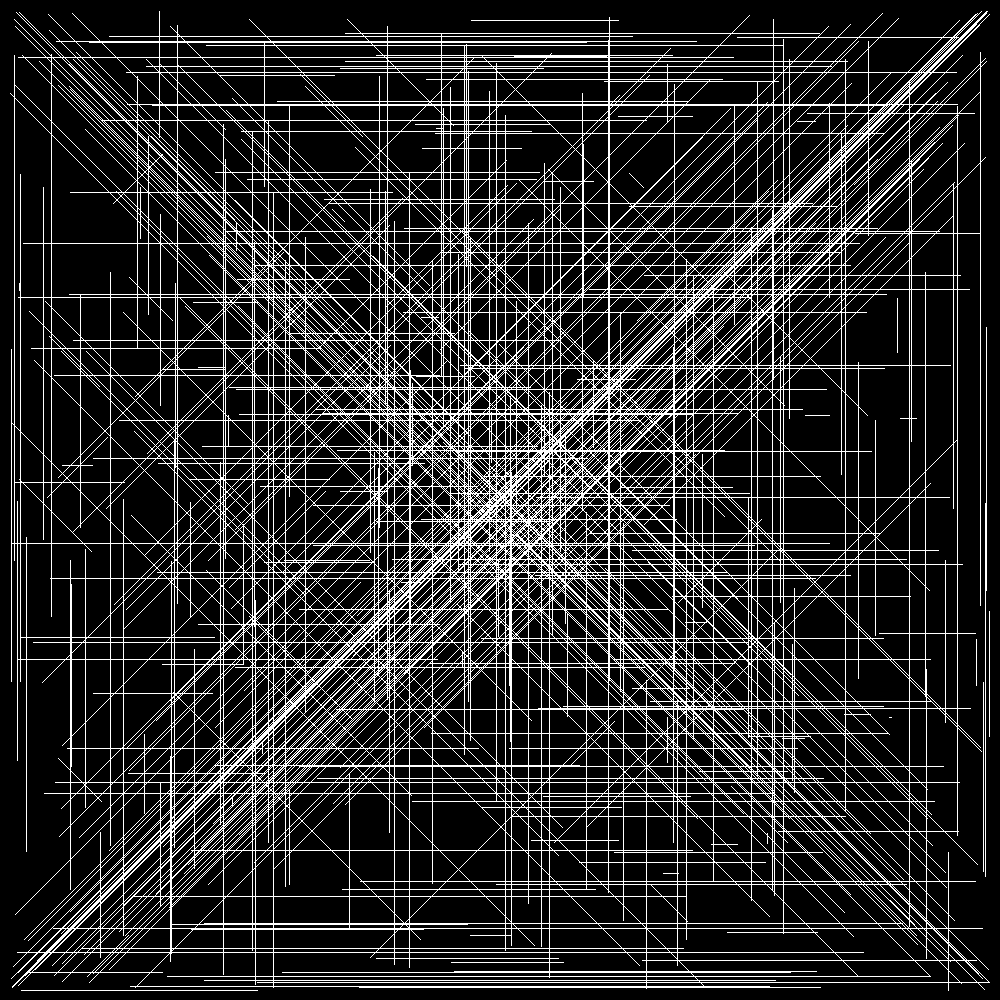
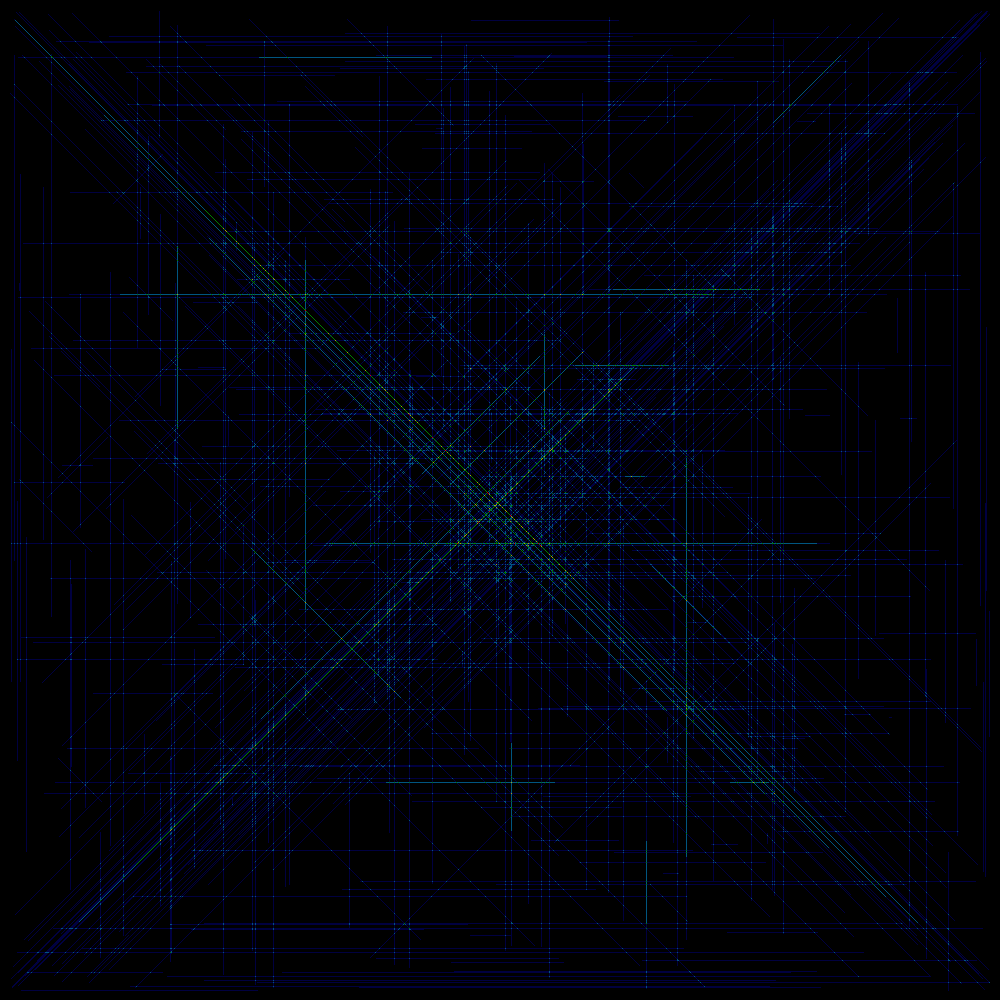
added heatmap image

diff --git a/day_five/src/main.rs b/day_five/src/main.rs
@@ -81,15 +81,48 @@ fn get_input() -> Vec<Line> {
 
 use image::RgbImage;
 fn output_as_image(map: Vec<Vec<u32>>, width: u32, height: u32) -> Result<(), image::ImageError> {
+    let gen_fac = *map
+        .iter()
+        .flatten()
+        .reduce(|a, b| if a > b { a } else { b })
+        .unwrap() as f32;
+
     let img_buffer: Vec<u8> = map
         .iter()
         .flatten()
-        .map(|i| if i != &0 { [255, 255, 255] } else { [0, 0, 0] })
+        .map(|i| {
+            // Heatmap algo go brrrr...
+            let a_fac = gen_fac * 0.66;
+            let red = if *i > a_fac as u32 {
+                255.0 * (*i as f32 / 6.0)
+            } else {
+                0.0
+            };
+
+            let g_fac = gen_fac * 0.33;
+            let green = if *i > g_fac as u32 && *i < (a_fac + 2.0) as u32 {
+                255.0 * (*i as f32 / (a_fac + 2.0))
+            } else {
+                0.0
+            };
+
+            let blue = if *i >= 1 && *i < (g_fac + 2.0) as u32 {
+                255.0 * (*i as f32 / (g_fac + 2.0))
+            } else {
+                0.0
+            };
+
+            if i != &0 {
+                [red as u8, green as u8, blue as u8]
+            } else {
+                [0, 0, 0]
+            }
+        })
         .flatten()
         .collect();
 
     let img = RgbImage::from_raw(width, height, img_buffer)
-        .expect("container should have the right size for the image dimensions");
+        .expect("Width and height should match the buffer");
     img.save("out.png")?;
     Ok(())
 }
